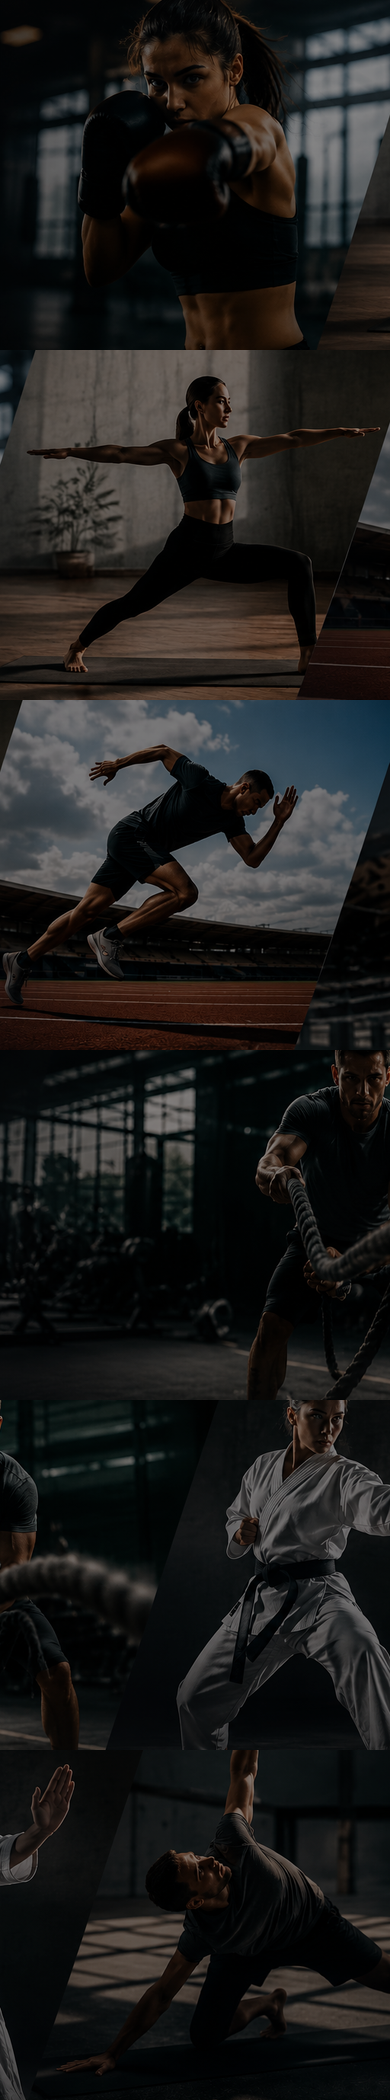
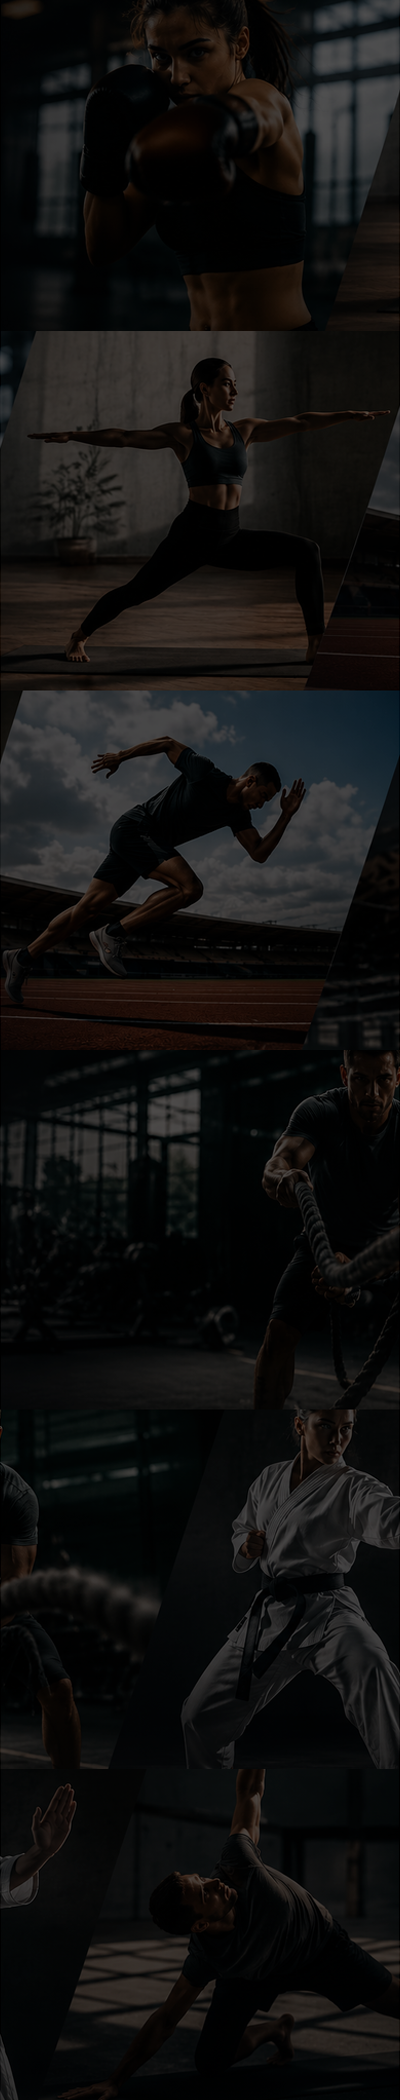
Ajuste de estilos versión movile
Ajuste de estilos versión movile

diff --git a/src/assets/css/styles.css b/src/assets/css/styles.css
@@ -800,11 +800,11 @@ footer {
 /* ======================================== MOBILE 0px → 575px ======================================== */
 
 .bg-landing {
-    background-image: url("../img/mobile-back-landing-fitlan.webp");
+    background-image: url("../img/mobile-back-landing-fitlan.png");
     background-position: center top;
     background-repeat: no-repeat;
     background-size: 100% auto;
-    background-attachment: scroll;
+    background-attachment: fixed;
 }
 
 .bg-landing .logo {
@@ -891,6 +891,7 @@ footer {
     display: flex;
     flex-direction: column;
     gap: 40px;
+    color: #FFFFFF;
 }
 
 .content-info article {
